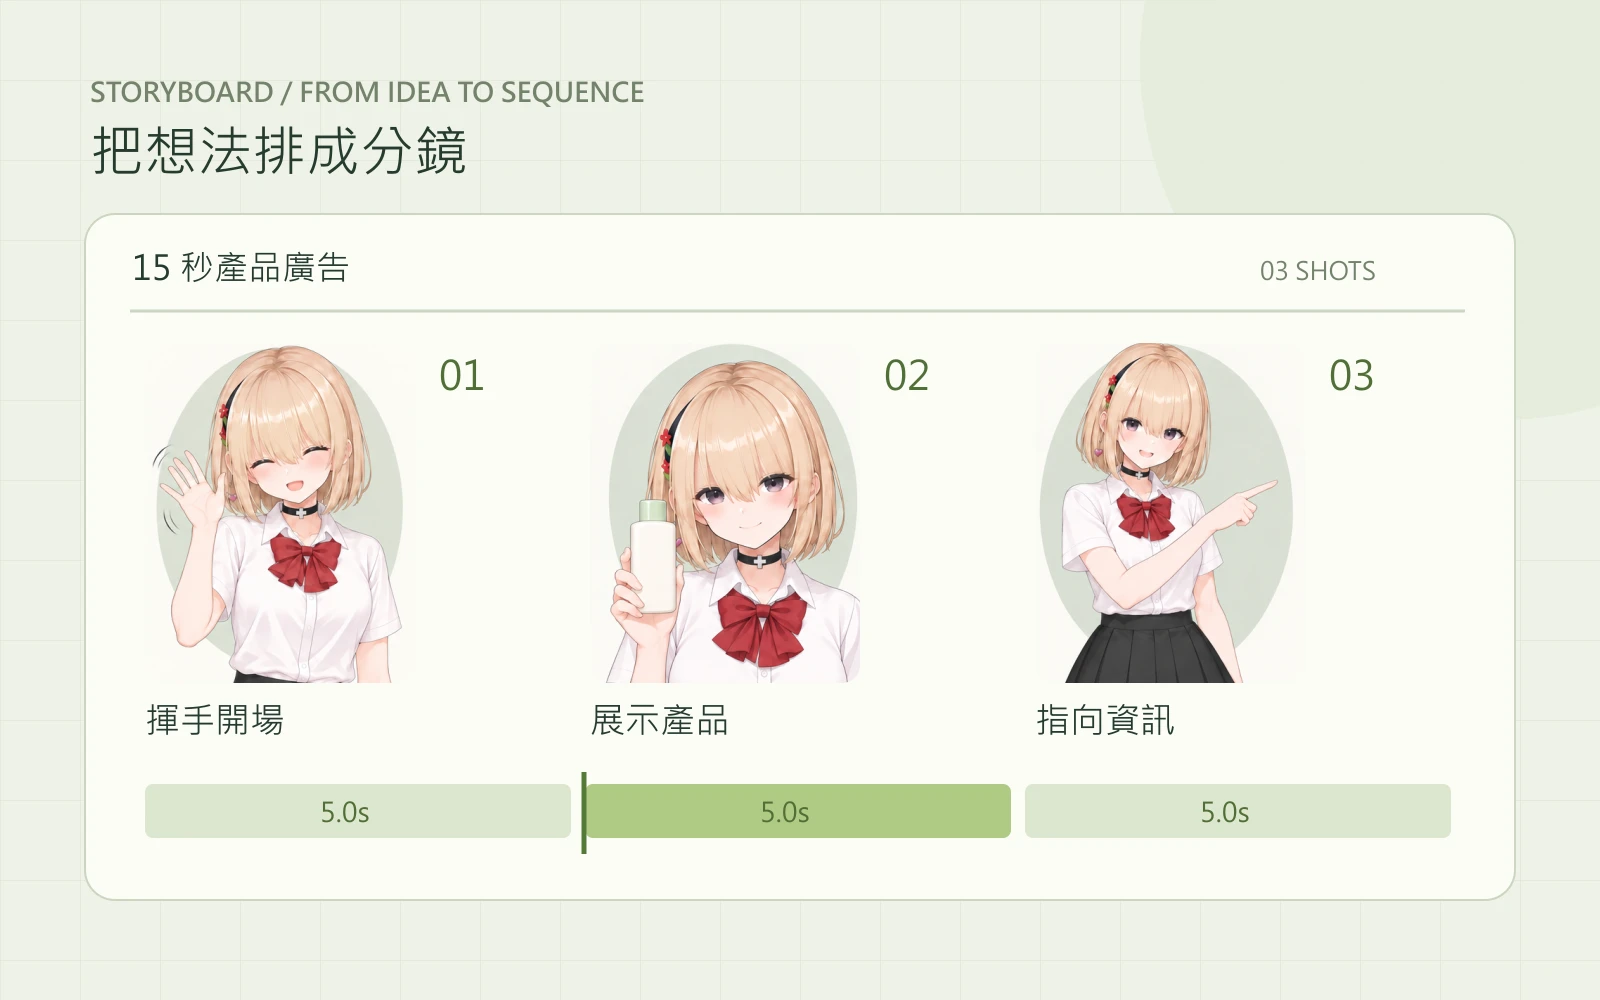
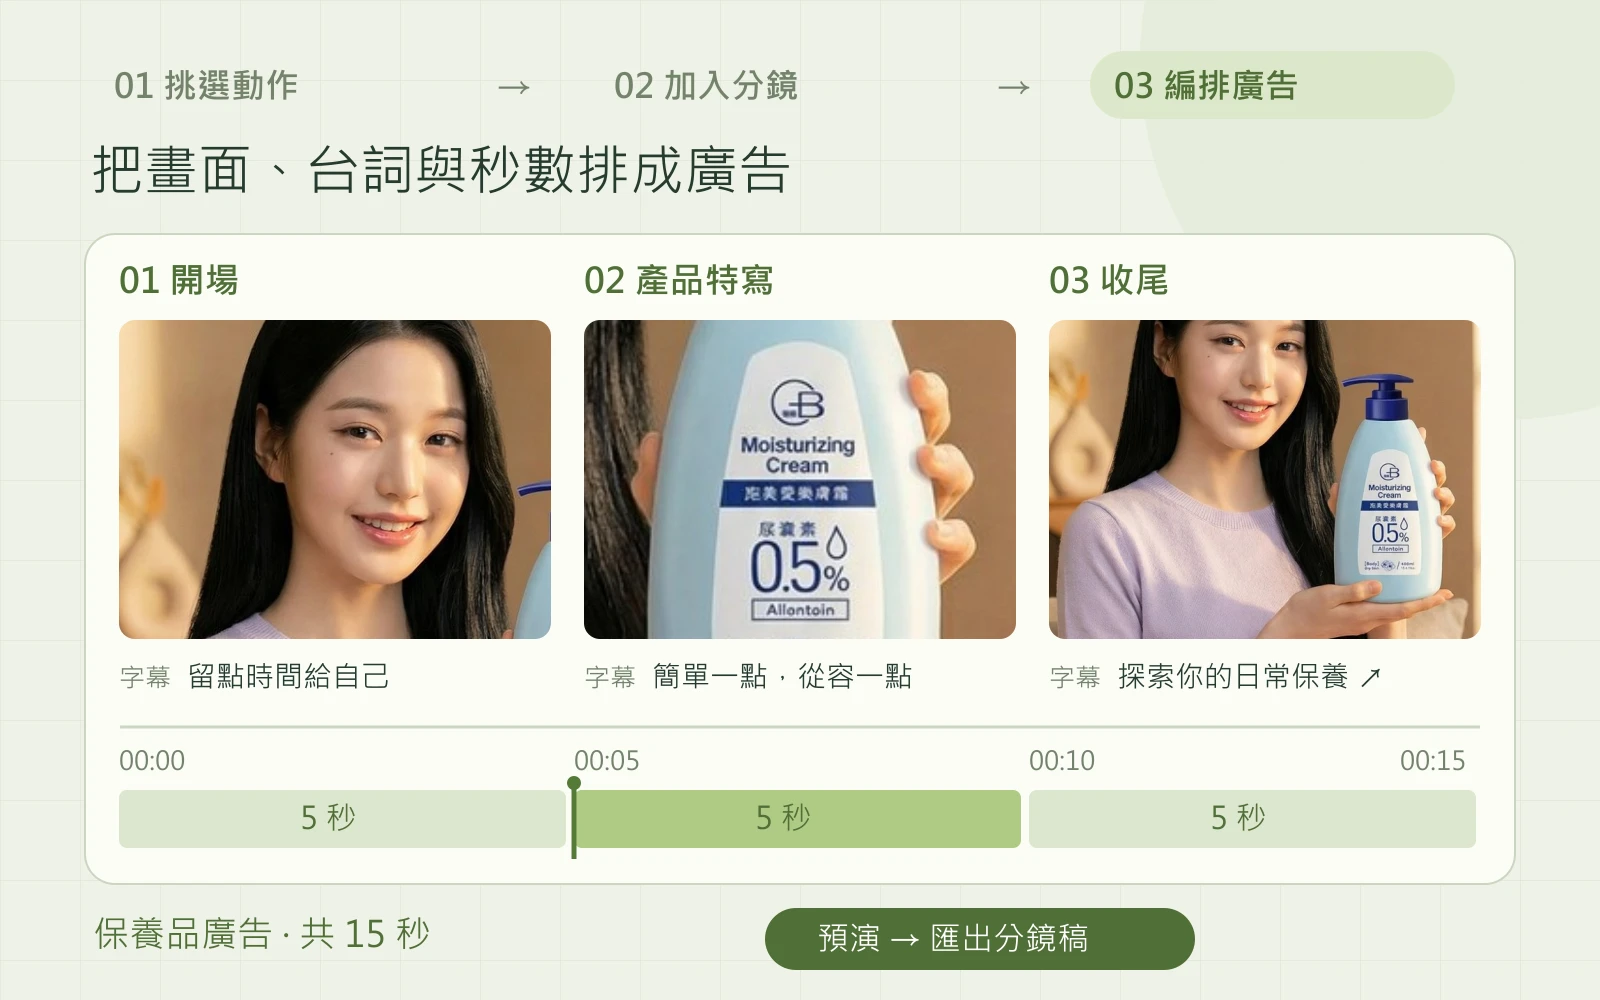
Add files via upload

diff --git a/assets/action-library.js b/assets/action-library.js
@@ -16,20 +16,38 @@
     if(el.dataset.loading||el.dataset.ready)return;
     el.dataset.loading='true';delete el.dataset.failed;
     const a=L.BY_ID.get(Number(el.dataset.action));
-    getImage(a.atlas).then(image=>{
-      el.querySelectorAll('.ac-pose').forEach((layer,frame)=>{
+    async function showImage(image){
+      const layers=[...el.querySelectorAll('.ac-pose')];
+      const frames=layers.map((layer,frame)=>{
         const img=document.createElement('img');img.alt='';img.draggable=false;
-        img.onerror=()=>{if(!layer.contains(img))return;delete el.dataset.ready;el.dataset.failed='true';updateImageStatus();};
         img.style.left=`${-a.column*100}%`;img.style.top=`${-frame*100}%`;img.src=image.src;
-        layer.replaceChildren(img);
+        return img;
       });
+      // Keep the previous image visible until both replacement frames are decoded.
+      let decodeTimer;
+      try{
+        await Promise.race([
+          Promise.all(frames.map(img=>img.decode())),
+          new Promise((_,reject)=>{decodeTimer=setTimeout(()=>reject(Error('圖片解碼逾時')),4000);})
+        ]);
+      }catch(error){frames.forEach(img=>{img.src='';});throw error;}
+      finally{clearTimeout(decodeTimer);}
+      layers.forEach((layer,index)=>layer.replaceChildren(frames[index]));
       el.dataset.ready='true';
+    }
+    imageLoader.getPreview(a.atlas).then(async image=>{
+      await showImage(image);
+      // The dialog can open with its cached thumbnail while detail loads in the background.
+      if(el.dataset.full==='true')getImage(a.atlas).then(full=>{
+        if(el.isConnected)return showImage(full);
+      }).catch(()=>{});
     }).catch(()=>{el.dataset.failed='true';}).finally(()=>{delete el.dataset.loading;updateImageStatus();});
   }
   function updateImageStatus(){const help=$('ac-image-help');if(help)help.hidden=!document.querySelector('.ac-grid .ac-art[data-failed=true]');}
   const lazy=new IntersectionObserver(entries=>entries.forEach(entry=>{if(entry.isIntersecting){loadArt(entry.target);lazy.unobserve(entry.target);}}),{rootMargin:'500px'});
-  function art(a,{labels=true,end=false,immediate=false}={}){
+  function art(a,{labels=true,end=false,immediate=false,full=false}={}){
     const wrap=node('div','ac-art');wrap.dataset.action=a.id;wrap.dataset.step=end?'1':'0';wrap.setAttribute('aria-hidden','true');
+    if(full)wrap.dataset.full='true';
     for(let frame=0;frame<2;frame++)wrap.append(node('span','ac-pose'+(frame?' ac-pose-end':'')));
     if(labels){wrap.append(node('span','ac-frame-count',String(a.id).padStart(2,'0')+' / '+a.shotZh));if(a.fresh)wrap.append(node('span','ac-new','新增'));const cap=node('div','ac-art-caption');cap.append(node('span','ac-phase-start','01 起始'),node('span','ac-phase-end','02 完成'),node('span','','兩格示意 ↗'));wrap.append(cap);}
     if(immediate)queueMicrotask(()=>loadArt(wrap));else lazy.observe(wrap);return wrap;
@@ -65,7 +83,7 @@
   function move(i,delta){const j=i+delta;if(j<0||j>=selected.length)return;[selected[i],selected[j]]=[selected[j],selected[i]];renderSequence();notify(`已移到第 ${j+1} 鏡`);}
   function stopModal(){clearInterval(modalTimer);modalPlaying=false;$('ac-dialog-play').textContent='播放兩格示意';$('ac-dialog-play').setAttribute('aria-pressed','false');}
   function showStep(step){modalStep=step;$('ac-dialog-art').firstElementChild.dataset.step=step;$('ac-step-start').setAttribute('aria-pressed',String(step===0));$('ac-step-end').setAttribute('aria-pressed',String(step===1));$('ac-dialog-cue').textContent=modalAction.cues[step];}
-  function openPreview(a){stopModal();document.querySelectorAll(`.ac-grid .ac-art[data-action="${a.id}"][data-failed=true]`).forEach(loadArt);modalAction=a;$('ac-dialog-title').textContent=a.zh;$('ac-dialog-meta').textContent=`${String(a.id).padStart(2,'0')} / ${L.KINDS[a.kind]} · ${a.shotZh} · 建議 ${a.duration} 秒`;$('ac-dialog-description').textContent=a.cues.join('，接著')+'。';$('ac-dialog-art').replaceChildren(art(a,{labels:false,immediate:true}));showStep(0);$('ac-dialog').showModal();$('ac-dialog').scrollTop=0;}
+  function openPreview(a){stopModal();document.querySelectorAll(`.ac-grid .ac-art[data-action="${a.id}"][data-failed=true]`).forEach(loadArt);modalAction=a;$('ac-dialog-title').textContent=a.zh;$('ac-dialog-meta').textContent=`${String(a.id).padStart(2,'0')} / ${L.KINDS[a.kind]} · ${a.shotZh} · 建議 ${a.duration} 秒`;$('ac-dialog-description').textContent=a.cues.join('，接著')+'。';$('ac-dialog-art').replaceChildren(art(a,{labels:false,immediate:true,full:true}));showStep(0);$('ac-dialog').showModal();$('ac-dialog').scrollTop=0;}
   $('ac-retry-images').addEventListener('click',()=>document.querySelectorAll('.ac-art[data-failed=true]').forEach(loadArt));
   addEventListener('online',()=>document.querySelectorAll('.ac-art[data-failed=true]').forEach(loadArt));
   $('ac-dialog-retry').addEventListener('click',()=>{const image=$('ac-dialog-art').firstElementChild;if(image)loadArt(image);});

diff --git a/assets/tool-room.js b/assets/tool-room.js
@@ -1,8 +1,8 @@
 (function(root){
   'use strict';
   const tools=[
-    {id:'storyboard',short:'廣告分鏡',title:'廣告分鏡工作台',category:'影片創作',purpose:'把零散畫面，排成一支廣告。',description:'安排每一鏡的畫面、動作與秒數，預演整支影片的節奏，再匯出分鏡稿。',path:'ad-storyboard.html',steps:['安排分鏡','設定動作與表情','預演與匯出'],alt:'三張人物分鏡搭配十五秒時間軸，示意從畫面安排到廣告分鏡稿。'},
-    {id:'video',short:'動作卡片',title:'短影片動作卡片庫',category:'影片創作',purpose:'先找到動作，再開始拍。',description:'從 48 張角色動作卡挑選開場、展示與收尾姿勢，組合後帶入廣告分鏡工作台。',path:'ai-tools.html',steps:['挑選動作','排列與設定秒數','帶入分鏡工作台'],alt:'同一位金髮動漫角色的揮手、產品展示與指向資訊區動作，組成三鏡順序。'},
+    {id:'storyboard',short:'廣告分鏡',title:'廣告分鏡工作台',category:'影片創作',purpose:'把畫面、台詞與秒數排成廣告。',description:'上傳參考照片，安排開場、產品展示與收尾，補上字幕、旁白和秒數，預演後匯出分鏡稿。',path:'ad-storyboard.html',imageVersion:'20260919-clear-purpose',steps:['安排畫面','加入台詞與秒數','預演與匯出'],alt:'保養品廣告的開場人物、產品特寫與收尾照片，每鏡附字幕，並排列在十五秒時間軸上。'},
+    {id:'video',short:'動作卡片',title:'短影片動作卡片庫',category:'影片創作',purpose:'挑一個動作，加入你的分鏡。',description:'從 48 張動漫角色動作卡挑選姿勢，對照起始與完成畫面，再把選好的動作帶進廣告分鏡工作台。',path:'ai-tools.html',imageVersion:'20260919-clear-purpose',steps:['挑選動作','比較起始與完成','加入分鏡'],alt:'同一個揮手動作的兩格姿勢對照：起始時抬手準備，完成時揮手微笑，搭配加入分鏡示意按鈕。'},
     {id:'facs',short:'表情控制',title:'表情控制器',category:'影片創作',purpose:'把「笑自然一點」，說得更具體。',description:'上傳照片、對齊五官並調整滑桿，查看局部表情變化，整理成可用的表情描述。',path:'facs-tool.html',steps:['上傳並裁切','對齊與調整五官','取得表情描述'],alt:'人像上的五官定位點搭配嘴角與眼睛控制滑桿，示意局部表情調整。'},
     {id:'line',short:'LINE 訊息',title:'LINE 訊息編排器',category:'行銷與活動',purpose:'訊息送出前，先看它長什麼樣。',description:'把圖片、文案與按鈕編成商品卡片，預覽手機裡的輪播訊息，再匯出 Flex Message。',path:'line-message.html',steps:['編排圖文','預覽手機訊息','匯出訊息'],alt:'商品圖片與文字編排在手機輪播訊息中，包含商品按鈕與多張卡片。'},
     {id:'utm',short:'UTM 連結',title:'UTM 連結產生器',category:'行銷與活動',purpose:'讓每個活動連結，都有清楚的來源。',description:'填入目的網址、來源、媒介與活動名稱，產生可用於流量分析的追蹤連結。',path:'utm-builder.html',steps:['填入網址','標記來源與活動','複製追蹤連結'],alt:'網址搭配來源 instagram、媒介 social 與活動 summer，合成帶有 UTM 參數的連結。'},

diff --git a/assets/action-media.js b/assets/action-media.js
@@ -1,12 +1,13 @@
 /* Shared, bounded image loading for the action gallery and exported storyboards. */
 (function(root){
   'use strict';
-  function browserLoad(src){
+  function browserLoad(src,{timeout=6000}={}){
     return new Promise((resolve,reject)=>{
       const image=new Image();
-      const timer=setTimeout(()=>finish(false),12000);
+      image.decoding='async';
+      const timer=setTimeout(()=>finish(false),timeout);
       let settled=false;
-      function finish(ok){if(settled)return;settled=true;clearTimeout(timer);image.onload=image.onerror=null;ok?resolve(image):reject(Error('圖片載入失敗'));}
+      function finish(ok){if(settled)return;settled=true;clearTimeout(timer);image.onload=image.onerror=null;if(ok)resolve(image);else{image.src='';reject(Error('圖片載入失敗'));}}
       image.onload=()=>finish(image.naturalWidth>0);image.onerror=()=>finish(false);image.src=src;
     });
   }
@@ -28,7 +29,23 @@
       promise.catch(()=>{if(cache.get(src)===promise)cache.delete(src);});
       return promise;
     }
-    return {get};
+    function getPreview(src){
+      const key='preview:'+src;
+      if(cache.has(key))return cache.get(key);
+      const webp=src.replace(/\.png$/,'.webp'),thumbnail=webp.replace(/\.webp$/,'.preview.webp');
+      const promise=(async()=>{
+        // Two short attempts, never the multi-megabyte PNG used for export fallback.
+        for(const [index,source] of [thumbnail,webp].entries()){
+          if(index)await delay(250);
+          try{return await load(source,{timeout:4000});}catch{}
+        }
+        throw Error('圖片載入較久，請點圖重試。');
+      })();
+      cache.set(key,promise);
+      promise.catch(()=>{if(cache.get(key)===promise)cache.delete(key);});
+      return promise;
+    }
+    return {get,getPreview};
   }
   const api={createLoader};
   if(typeof module==='object'&&module.exports)module.exports=api;else root.ActionMedia=api;

diff --git a/assets/tool-room.css b/assets/tool-room.css
@@ -10,7 +10,7 @@
 .yk-index-page #yk-world .yk-tool-showcase{display:grid;grid-template-columns:minmax(0,1.35fr) minmax(0,1fr);gap:38px;align-items:center;border:1px solid var(--yk-line);border-radius:20px;background:var(--yk-surface);padding:24px}
 .yk-tool-figure{position:relative;margin:0;min-width:0;overflow:hidden;border-radius:13px;background:#f0f2e9;align-self:center}
 .yk-tool-figure img{display:block;width:100%;height:auto;aspect-ratio:8/5;object-fit:contain}
-.yk-tool-figure figcaption{position:absolute;right:12px;bottom:10px;font-size:11px;color:#647258;background:#f7f8efd9;border-radius:99px;padding:3px 9px}
+.yk-tool-figure figcaption{font-size:11px;color:#647258;background:#f0f2e9;padding:5px 12px 7px;text-align:right;line-height:1.4}
 .yk-tool-category{color:var(--yk-accent);font-size:12px;letter-spacing:.1em}
 .yk-index-page #yk-world .yk-tool-copy h3{font-size:27px;line-height:1.4;letter-spacing:-.03em;font-weight:500;margin:10px 0 16px}
 .yk-index-page #yk-world .yk-tool-copy .yk-tool-purpose{font-size:17px;color:var(--yk-ink);margin:0 0 10px;line-height:1.65}
